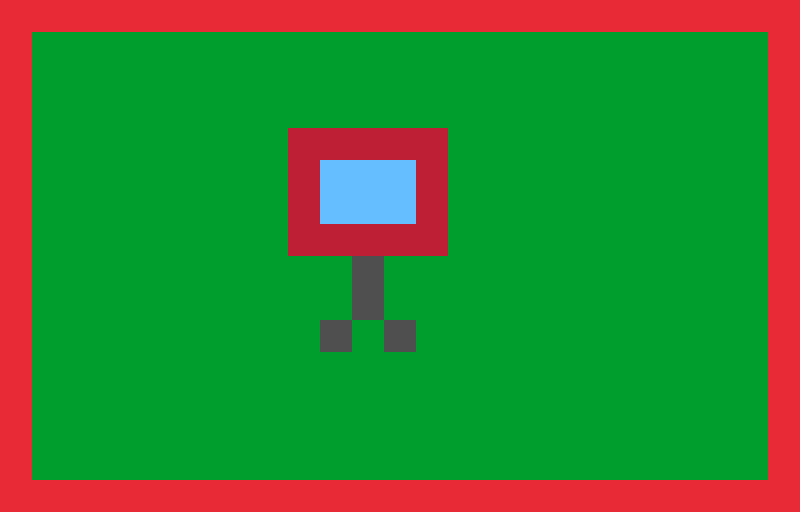
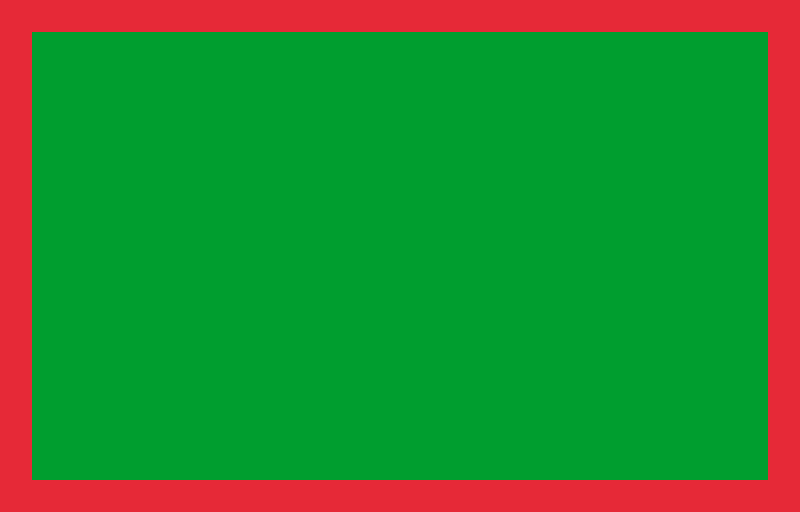
graphismes, tanks de couleur, healthbar, bugfixes, etc...

Changed region(s): [[0.3438, 0.25, 0.5625, 0.6875], [0.375, 0.625, 0.4375, 0.6875]]

diff --git a/src/Game/render.c b/src/Game/render.c
@@ -4,8 +4,11 @@
 
 #include "render.h"
 
-float tileMap(float dU, char *map, int W, int H)
+float tileMap(float dU, char *map, int W, int H, Texture2D *textureArray)
 {
+    Texture2D ground = textureArray[0];
+    Texture2D wall = textureArray[1];
+    Texture2D box = textureArray[2];
 
     ClearBackground(RAYWHITE);
 
@@ -15,45 +18,80 @@ float tileMap(float dU, char *map, int W, int H)
         {
             if (map[j * W + i] == 1)
             {
-                DrawRectangle((int)(dU * i), (int)(dU * j), dU + 1, dU + 1, (Color){100, 150, 100, 255});
+                DrawTexturePro(
+                    wall,
+                    (Rectangle){0, 0, (float)wall.width, (float)wall.height},
+                    (Rectangle){(int)(dU * i), (int)(dU * j), dU + 1, dU + 1},
+                    (Vector2){0, 0},
+                    0.0f,
+                    WHITE);
             }
             else if (map[j * W + i] == 2)
             {
-                DrawRectangle((int)(dU * i), (int)(dU * j), dU + 1, dU + 1, (Color){255, 100, 100, 255});
+                DrawTexturePro(
+                    box,
+                    (Rectangle){0, 0, (float)box.width, (float)box.height},
+                    (Rectangle){(int)(dU * i), (int)(dU * j), dU + 1, dU + 1},
+                    (Vector2){0, 0},
+                    0.0f,
+                    WHITE);
             }
             else if (map[j * W + i] == 0)
             {
-                DrawRectangle((int)(dU * i), (int)(dU * j), dU + 1, dU + 1, (Color){200, 200, 200, 255});
+
+                DrawTexturePro(
+                    ground,
+                    (Rectangle){0, 0, (float)ground.width, (float)ground.height},
+                    (Rectangle){(int)(dU * i), (int)(dU * j), dU + 1, dU + 1},
+                    (Vector2){0, 0},
+                    0.0f,
+                    WHITE);
             }
             else
             {
                 // default color for error
-                DrawRectangle((int)(dU * i), (int)(dU * j), dU + 1, dU + 1, (Color){150, 150, 200, 255});
+                DrawRectangle((int)(dU * i), (int)(dU * j), dU + 1, dU + 1, (Color){255, 0, 0, 255});
             }
         }
     }
 }
-
-void drawEveryTile(float dU, char *map, int W, int H)
+void drawPlayers(float dU, player *players, int playerCount, Texture2D *textureArray)
 {
-    tileMap(dU, map, W, H);
+    Texture2D bodyTex = textureArray[3];
+    Texture2D canonTex = textureArray[4];
+    Color playerColors[4] = {YELLOW, LIGHTGRAY, SKYBLUE, GREEN};
 
-    // un obstacle
-    DrawRectangle(60 * dU, 60 * dU, 30 * dU, 40 * dU, RED);
-}
-
-void drawPlayers(float dU, player *players, int playerCount)
-{
     for (int i = 0; i < playerCount; i++)
     {
         player *p = &players[i];
-        Vector2 pos = {(p->posX - p->size / 2), (p->posY - p->size / 2)};
+
+        Vector2 tankCenterPixels = {(p->posX) * dU, p->posY * dU};
+
+        float bodyDrawSize = p->size * dU * 1.2f;
+
+        float canonWidth = bodyDrawSize * (p->powerUp.sniper ? 2.5f : 1.8f);
+        float canonHeight = bodyDrawSize * 1.0f;
 
         // body
-        DrawRectangle(pos.x * dU, pos.y * dU, p->size * dU, p->size * dU, (Color){i * 60, i * 100, i * 60, 255 * (120 - p->respawnTimer) / 120});
+        DrawTexturePro(
+            bodyTex,
+            (Rectangle){0, 0, (float)bodyTex.width, (float)bodyTex.height},
+            (Rectangle){tankCenterPixels.x - 0.2 * dU, tankCenterPixels.y, bodyDrawSize + 0.4 * dU, bodyDrawSize},
+            (Vector2){bodyDrawSize / 2, bodyDrawSize / 2},
+            0.0f,
+            playerColors[i]);
+
         // canon
-        float canon_size = p->powerUp.sniper ? 1.5 : 1.0;
-        DrawRectanglePro((Rectangle){(pos.x + p->size / 2) * dU, (pos.y + p->size / 2) * dU, canon_size * dU, 0.1 * dU}, (Vector2){0, 0}, p->aimOrientation, (Color){0, 200, 100, 255 * (120 - p->respawnTimer) / 120});
+
+        DrawTexturePro(
+            canonTex,
+            (Rectangle){0, 0, (float)canonTex.width, (float)canonTex.height},
+            (Rectangle){tankCenterPixels.x, tankCenterPixels.y, canonWidth, canonHeight},
+            (Vector2){canonWidth / 2 + 0.5 * dU, canonHeight / 2},
+            p->aimOrientation + 180,
+            playerColors[i]);
+
+        DrawRectangle(tankCenterPixels.x - bodyDrawSize / 2, tankCenterPixels.y - bodyDrawSize / 2 - 10, bodyDrawSize * (p->livesLeft / 3.0f), 5, RED);
     }
 }
 

diff --git a/src/Game/Game.c b/src/Game/Game.c
@@ -6,7 +6,7 @@
 #include <raylib.h>
 #include "Game.h"
 
-void mainLoop(player *p, int playerCount, projectileList *pr, powerUp *pu, float dU, char *map, int W, int H, bool *exitGame)
+void mainLoop(player *p, int playerCount, projectileList *pr, powerUp *pu, float dU, char *map, int W, int H, bool *exitGame, Texture2D *textureArray)
 {
     // input and logic
     movePlayers(p, playerCount, map, W, H);
@@ -15,8 +15,8 @@ void mainLoop(player *p, int playerCount, projectileList *pr, powerUp *pu, float
     powerUps(pu, map, p, playerCount, pr, W, H);
 
     // render
-    drawEveryTile(dU, map, W, H);
-    drawPlayers(dU, p, playerCount);
+    tileMap(dU, map, W, H, textureArray);
+    drawPlayers(dU, p, playerCount, textureArray);
     drawPowerUp(dU, *pu);
     drawProjectiles(dU, pr);
 }
@@ -156,9 +156,11 @@ void checkPlayersGettingHit(projectile *proj, Rectangle ProjHitbox, player *p, i
         if (CheckCollisionRecs(ProjHitbox, PlayerHitbox))
         {
             // basically kills the player
-            if (pla->livesLeft <= 0)
+            if (pla->livesLeft <= 1)
             {
+                pla->livesLeft -= 1;
                 pla->posX = 1000000.0f;
+                checkWin(exitGame, p, pC);
             }
             else
             {
@@ -168,8 +170,6 @@ void checkPlayersGettingHit(projectile *proj, Rectangle ProjHitbox, player *p, i
                 pla->posY = randomStartCoord[1] + 0.5;
                 pla->livesLeft -= 1;
                 pla->respawnTimer = 60 * 2;
-
-                checkWin(exitGame, p, pC);
             }
         }
     }
@@ -555,6 +555,12 @@ void RunGame(char *mapPath, int playersCount)
         strcat(imagePath, ".png");
 
     Texture2D bgTexture = LoadTexture(imagePath);
+    Texture2D a = LoadTexture("src/Graphisme/assets/ground4.jpg");
+    Texture2D b = LoadTexture("src/Graphisme/assets/wall3.jpg");
+    Texture2D c = LoadTexture("src/Graphisme/assets/box2.jpg");
+    Texture2D d = LoadTexture("src/Graphisme/assets/tank1.png");
+    Texture2D e = LoadTexture("src/Graphisme/assets/tank2.png");
+    Texture2D textureArray[5] = {a, b, c, d, e};
 
     if (bgTexture.id == 0)
     {
@@ -646,7 +652,7 @@ void RunGame(char *mapPath, int playersCount)
         float dU = dUX < dUY ? dUX : dUY;
 
         // printf("%d, %d\n",width,height);
-        mainLoop(p, playersCount, &prList, &pu, dU, cleanMap, width, height, &exitGame);
+        mainLoop(p, playersCount, &prList, &pu, dU, cleanMap, width, height, &exitGame, &textureArray);
 
         DrawText("Press BACKSPACE to return to Menu", 10, 10, 20, DARKGRAY);
         EndDrawing();

diff --git a/src/Game/Game.h b/src/Game/Game.h
@@ -4,7 +4,7 @@
 
 #include "render.h"
 
-void mainLoop(player *p, int playerCount, projectileList *pr, powerUp *pu, float dU, char *map, int W, int H, bool *exitGame);
+void mainLoop(player *p, int playerCount, projectileList *pr, powerUp *pu, float dU, char *map, int W, int H, bool *exitGame, Texture2D *textureArray);
 void movePlayers(player *players, int pC, char *map, int W, int H);
 void actions(player *players, int pC, projectileList *pr);
 void updateProjectiles(projectileList *pr, player *p, int pC, char *map, int W, int H, bool *exitGame);
@@ -12,8 +12,4 @@ void checkPlayersGettingHit(projectile *proj, Rectangle ProjHitbox, player *p, i
 void randomCoordsWithDistance(int *XY, player *p, char *map, int pC, int distanceMinToPlayer, int W, int H);
 void powerUps(powerUp *pu, char *map, player *p, int pC, projectileList *pr, int W, int H);
 void listRem(int projectileIndex, projectileList *pr);
-void drawEveryTile(float dU, char *map, int W, int H);
-void drawPlayers(float dU, player *p, int playerCount);
-void drawProjectiles(float dU, projectileList *pr);
-void drawPowerUp(float dU, powerUp pu);
 void RunGame(char *mapPath, int playersCount);

diff --git a/src/Game/render.h b/src/Game/render.h
@@ -71,11 +71,8 @@ typedef struct powerUp // the physical object
     int index; // (0-5) depending on what effect
 } powerUp;
 
-// #define W 80 // tile map, number of tiles
-// #define H 32
 
-float tileMap(float dU, char *map, int W, int H);
-void drawEveryTile(float dU, char *map, int W, int H);
-void drawPlayers(float dU, player *p, int playerCount);
+float tileMap(float dU, char *map, int W, int H, Texture2D *textureArray);
+void drawPlayers(float dU, player *p, int playerCount, Texture2D *textureArray);
 void drawProjectiles(float dU, projectileList *pr);
 void drawPowerUp(float dU, powerUp pu);
